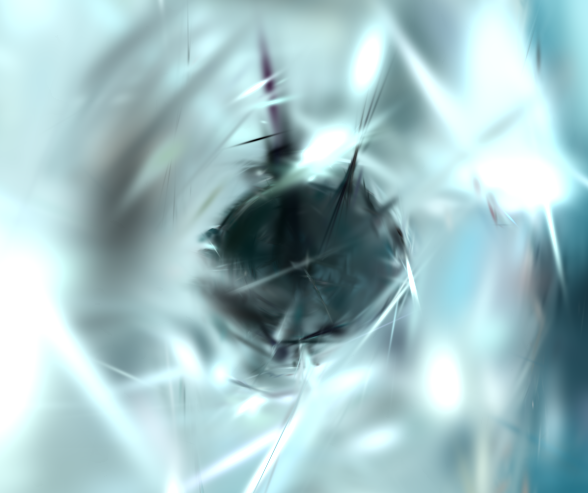
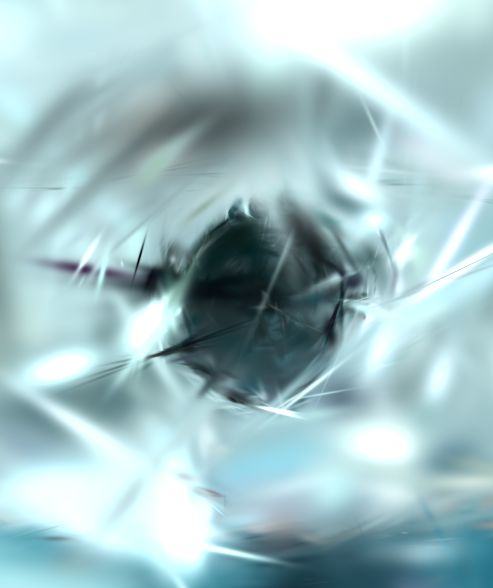
naive implementation without correct transformation

diff --git a/src/megapose/gaussian_renderer/gaussian_renderer_api.py b/src/megapose/gaussian_renderer/gaussian_renderer_api.py
@@ -56,16 +56,24 @@ class Gaussian_Renderer_API:
         self.resolution = resolution
         self.R = np.eye(3)
         self.T = np.array([0, 0, 0])
+        self.flip_mat = np.array([
+                                    [1, 0, 0, 0],
+                                    [0, -1, 0, 0],
+                                    [0, 0, -1, 0],
+                                    [0, 0, 0, 1]
+                                ])
 
     def set_fov(self, K):
 
-        self.fov_x = np.degrees(2 * np.arctan2(self.resolution[0], 2 * K[0, 0]))
-        self.fov_y = np.degrees(2 * np.arctan2(self.resolution[1], 2 * K[1, 1]))
-        # self.fovy = 0.8139860440345605
-        # self.fovx = 0.951948382486254
-        self.screen_center =  np.array([(K[0, 2] / self.resolution[0]), (K[1, 2] / self.resolution[1])])
+        # self.fov_x = np.degrees(2 * np.arctan2(self.resolution[0], 2 * K[0, 0]))
+        # self.fov_y = np.degrees(2 * np.arctan2(self.resolution[1], 2 * K[1, 1]))
+        self.fovy = 0.8139860440345605
+        self.fovx = 0.951948382486254
+        # self.screen_center =  np.array([(K[0, 2] / self.resolution[0]), (K[1, 2] / self.resolution[1])])
 
     def set_camera_matrix(self, Transformation, mesh_scale, mesh_transformation):
+        Transformation =  np.linalg.inv(Transformation)
+        Transformation = np.matmul(Transformation, self.flip_mat)
         self.R = Transformation[:3, :3]
         self.T = Transformation[:3, 3]
 
@@ -74,24 +82,27 @@ class Gaussian_Renderer_API:
         view = Camera(colmap_id=None, R=self.R, T=self.T, FoVx=self.fovx, FoVy=self.fovy, image=image, gt_alpha_mask=None,
                         image_name='test', uid=None, data_device="cuda")
         rendering = render(view, self.gaussians, self.pipeline, self.background)["render"]
+        rendering = rendering.detach().cpu().numpy()
+        rendering = rendering.transpose(2, 1, 0) * 255.0
         return rendering
 
 
 
-# if __name__ == '__main__':
-#     resolution = (493, 588)
-#     Transformation = np.eye(4)
-#     Transformation[2,3] = 1
-#     K = np.eye(3)
-#     K[0,0] = 1000
-#     K[1,1] = 1200
-#     K[0,2] = 300
-#     K[1,2] = 200
-#
-#     api = Gaussian_Renderer_API("/home/testbed/PycharmProjects/gaussian-splatting/output/d3b2f74a-0", resolution)
-#     api.set_fov(K)
-#     render = api.render_image(Transformation)
-#     render = render.detach().cpu().numpy()
-#     cv2.imwrite("test.png", render.transpose(1, 2, 0) * 255)
+if __name__ == '__main__':
+    resolution = (493, 588)
+    Transformation = np.eye(4)
+    Transformation[2,3] = 1
+    K = np.eye(3)
+    K[0,0] = 1000
+    K[1,1] = 1200
+    K[0,2] = 300
+    K[1,2] = 200
+
+    api = Gaussian_Renderer_API("/home/testbed/PycharmProjects/gaussian-splatting/output/d3b2f74a-0", resolution)
+    api.set_fov(K)
+    api.set_camera_matrix(Transformation, 1, 1)
+    render = api.get_image_from_tranform()
+    cv2.imwrite("test.png", render)
+    breakpoint()
 
 

diff --git a/src/megapose/panda3d_renderer/panda3d_batch_renderer.py b/src/megapose/panda3d_renderer/panda3d_batch_renderer.py
@@ -429,12 +429,13 @@ class Panda3dBatchRenderer:
         TCO = TCO.detach().cpu().numpy()
         Intrinsics = K.detach().cpu().numpy()
 
-        root_path = os.path.split(os.path.split(os.path.split(os.path.split(__file__)[0])[0])[0])[0]
+        # root_path = os.path.split(os.path.split(os.path.split(os.path.split(__file__)[0])[0])[0])[0]
         # weight_path = os.path.join(root_path, "local_data", "examples", labels[0], "ngp_weight", "base.ingp")
         # world_tranformation = json.loads(open(os.path.join(root_path, "local_data", "examples", labels[0],"ngp_weight", "scale.json")).read())
         # mesh_transformation = np.array(world_tranformation['transformation'])
         # mesh_scale = world_tranformation["scale"]
-        weight_path = os.path.join(root_path, "local_data", "examples", labels[0], "gaussian_weight", "base.ingp")
+        # weight_path = os.path.join(root_path, "local_data", "examples", labels[0], "gaussian_weight", "base.ingp")
+        weight_path = "/home/testbed/PycharmProjects/gaussian-splatting/output/d3b2f74a-0"
         mesh_scale = 1.0
         mesh_transformation = np.eye(4)
 

diff --git a/src/megapose/models/pose_rigid.py b/src/megapose/models/pose_rigid.py
@@ -407,7 +407,7 @@ class PosePredictor(nn.Module):
             rgb = rgb_images[i] * 255.0
             cv2.imwrite(os.path.join(loc, str(i)  + "_rendered_image_rgb" + ".png"), rgb)
 
-        render_data_ngp = self.renderer.render(
+        render_data_ngp = self.renderer.gaussian_renderer(
             labels=labels_mv,
             TCO=TCV_O.flatten(0, 1),
             K=KV.flatten(0, 1),

diff --git a/src/megapose/scripts/run_infrence_with_gaussian_renderer.py b/src/megapose/scripts/run_infrence_with_gaussian_renderer.py
@@ -226,4 +226,4 @@ if __name__ == "__main__":
     example_dir = LOCAL_DATA_DIR / "examples" / "02_cracker_box"
 
     run_inference(example_dir, "megapose-1.0-RGB-multi-hypothesis")
-    make_output_visualization(example_dir)
+    # make_output_visualization(example_dir)
